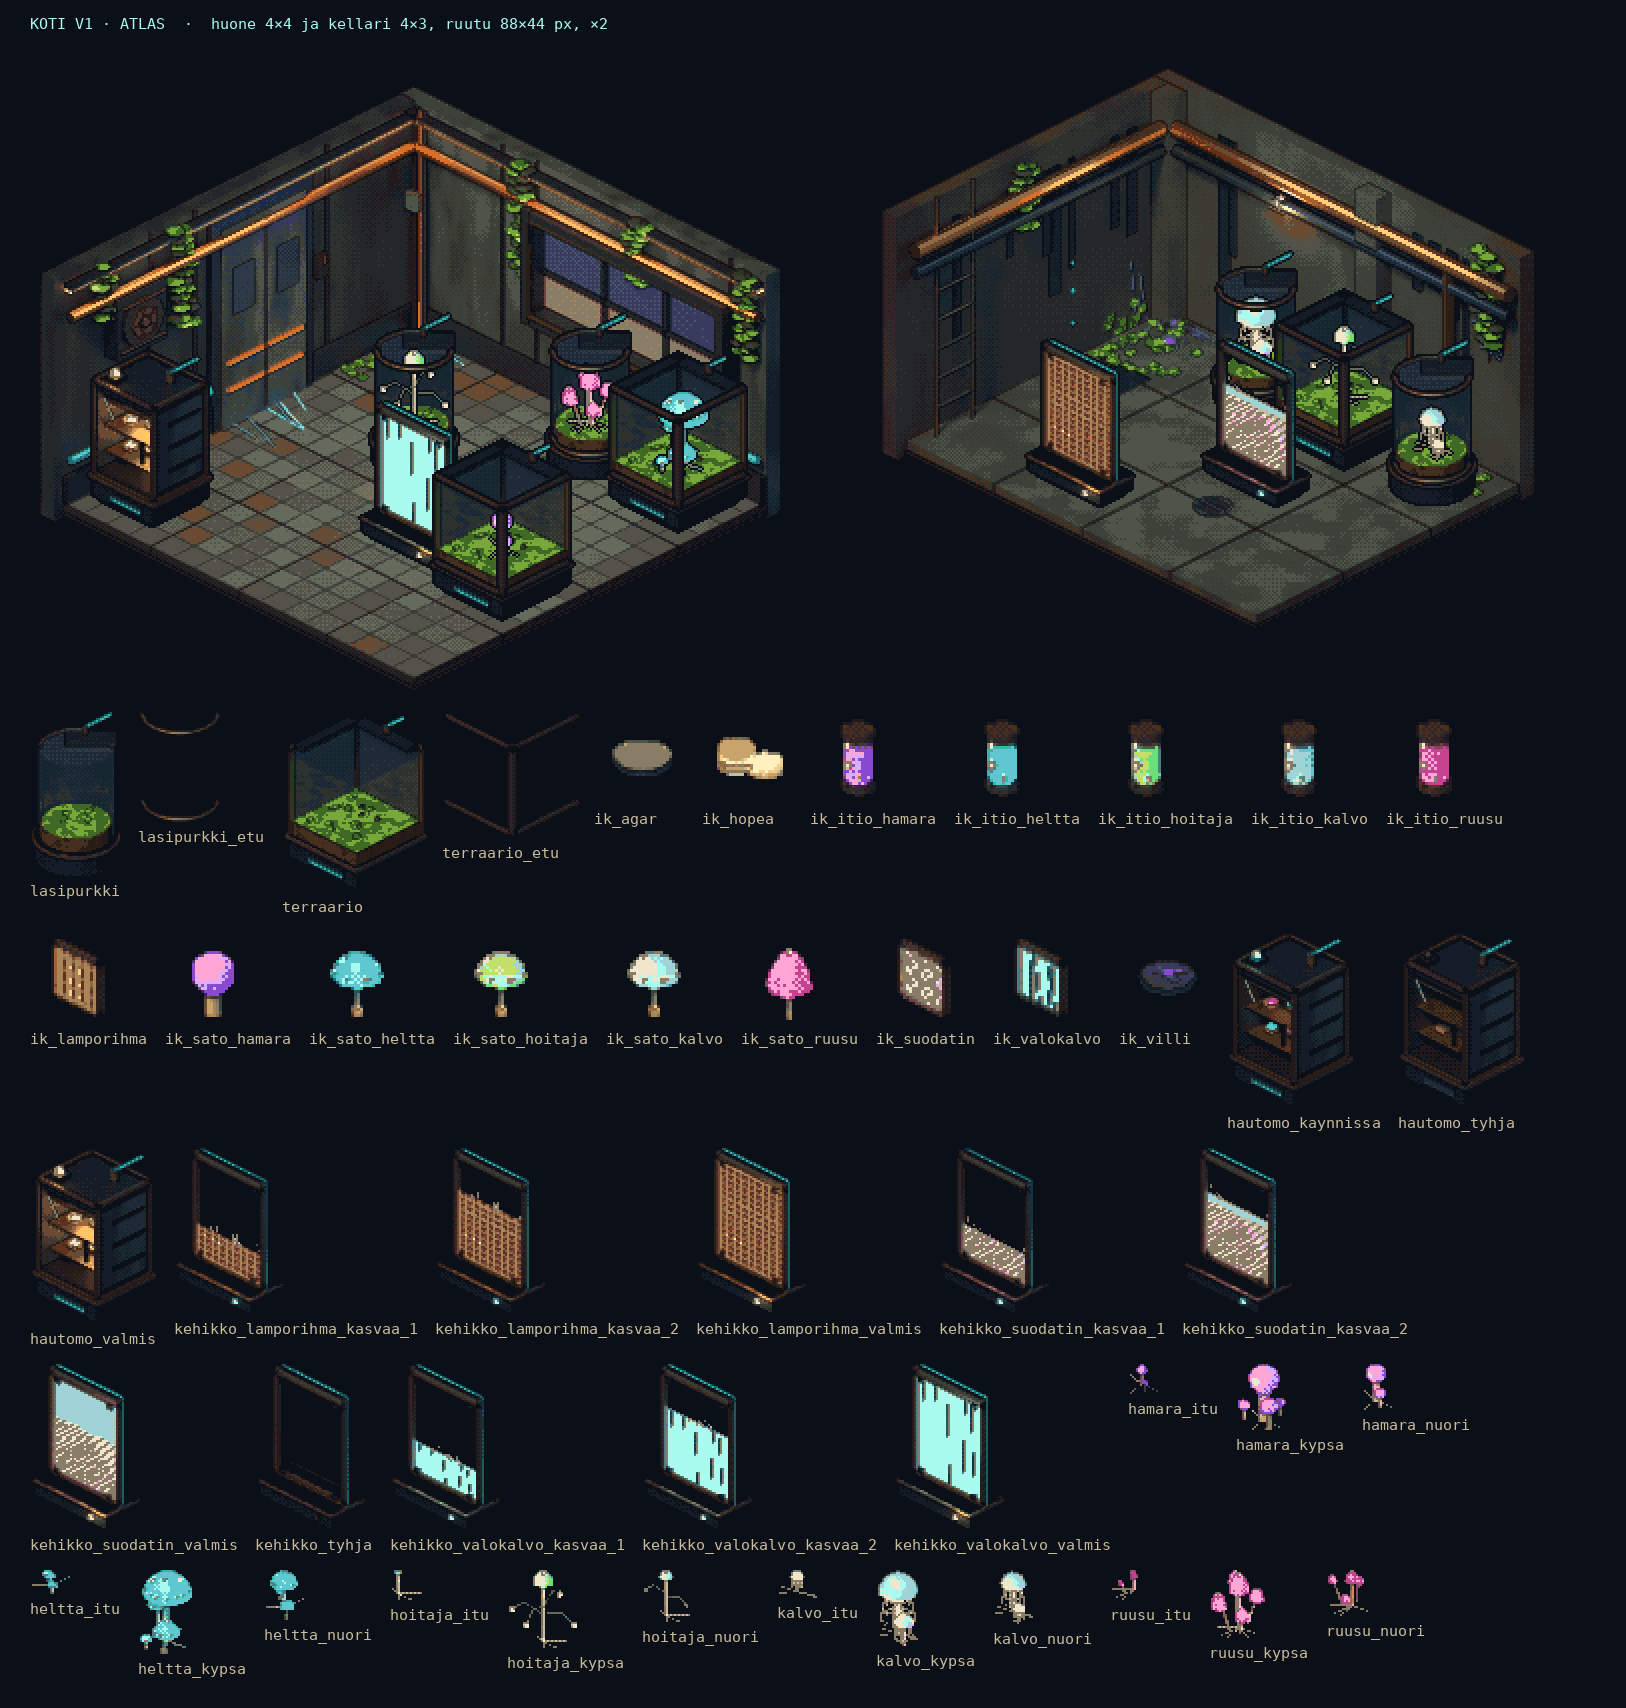
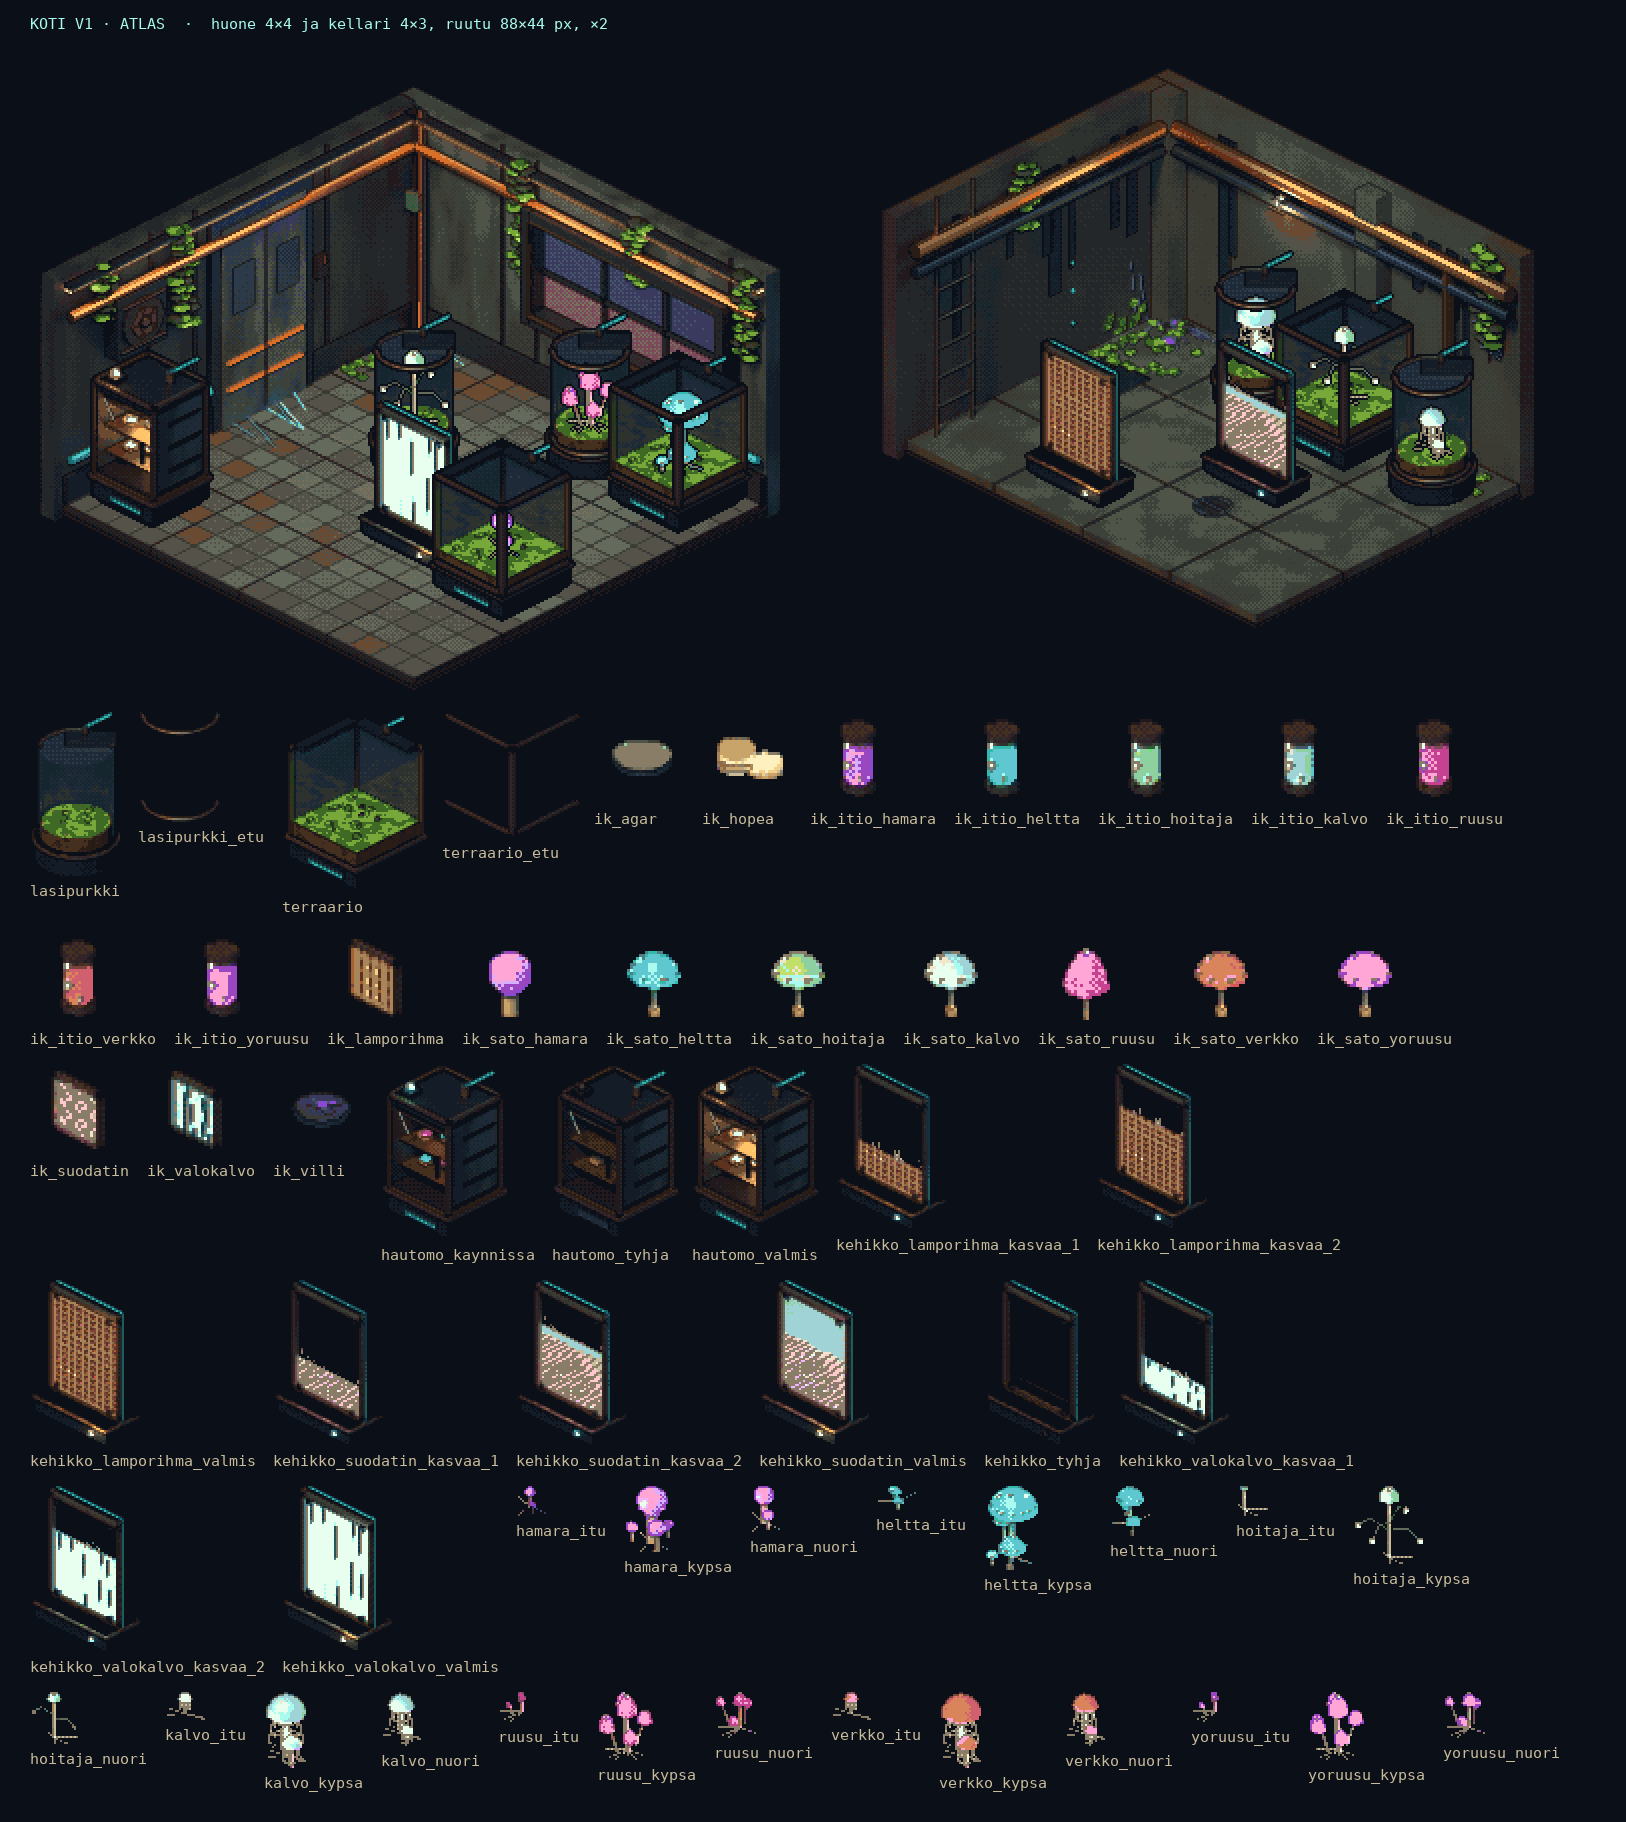
Grafiikka: uudet kannat yöruusu ja verkkoheltta atlakseen
Kantataulukkoon kaksi riviä (muodot lainattu ruususieneltä ja kalvohelttalta),
uusien kantojen ja hoitajasienen värit pix.py:n palettiin. Ikkunan hämärä himmeämmäksi.

Claude-Session: https://claude.ai/code/session_01JS56Z8CcBzHQJ8sgZoALuF

diff --git a/blender/koti.py b/blender/koti.py
@@ -75,6 +75,8 @@ STRAIN = {   # kanta: (lakki, heltat/hehku, tumma). Uusi kanta: lisää värit t
     'hamara': ('#8a4ad0', '#d6b0ff', '#3a1f5a'),
     'kalvo':  ('#9fd3d6', '#ffa6d6', '#2d4a55'),
     'hoitaja':('#8fd0a0', '#e8fff0', '#2f5a3a'),
+    'yoruusu':('#9a46c0', '#f2b4ff', '#3a1a50'),
+    'verkko': ('#d0606e', '#ffc8cc', '#5a2a3a'),
 }
 def M():
     return {
@@ -95,7 +97,7 @@ def M():
       'mossD':   mat('sammalT', '#24391c', 1.0),
       'stem':    mat('jalka', '#efe6cc', 0.7),
       'stemD':   mat('jalkaT', '#c9bc9c', 0.8),
-      'sky':     mat('taivas', '#3a3a5e', 1.0, emit='#7a4a5a', estr=1.2),
+      'sky':     mat('taivas', '#3a3a5e', 1.0, emit='#7a4a5a', estr=0.7),
       'skyT':    mat('taivasY', '#141c28', 1.0, emit='#1b2a4a', estr=1.2),
       'city':    mat('kaupunki', '#141c28', 1.0),
       'cityL':   mat('kaupunkiV', '#ffcf7a', 1.0, emit='#ffcf7a', estr=3.0),
@@ -127,7 +129,7 @@ def M():
       'pot':     mat('ruukku', '#a8602f', 0.8),
     }
 
-CAP_GLOW = {'kalvo': 0.4, 'hoitaja': 0.4}   # vaaleat lakit hehkuvat vähemmän, jotta väri ei puhkea valkoiseksi
+CAP_GLOW = {'kalvo': 0.4, 'hoitaja': 0.4, 'verkko': 0.8}   # vaaleat lakit hehkuvat vähemmän, jotta väri ei puhkea valkoiseksi
 def strain_mats(k):
     cap_c, gill_c, dark_c = STRAIN[k]
     return (mat('lakki_' + k, cap_c, 0.5, emit=cap_c, estr=CAP_GLOW.get(k, 1.6)),
@@ -329,6 +331,8 @@ KANNAT = {
     'hamara':  ('HÄMÄRÄNUPPI', muoto_nuppi),
     'kalvo':   ('KALVOHELTTA', muoto_kalvo),
     'hoitaja': ('HOITAJASIENI', muoto_hoitaja),
+    'yoruusu': ('YÖRUUSU', muoto_ruusu),        # ruususieni × hämäränuppi
+    'verkko':  ('VERKKOHELTTA', muoto_kalvo),   # kalvoheltta × hämäränuppi
 }
 STAGES = ('itu', 'nuori', 'kypsa')
 
@@ -464,7 +468,7 @@ def laite_hautomo(state='kaynnissa'):
 TUOTTEET = {   # kehikon tuotteet: avain -> (nimi, kanta, väri, hehku)
     'valokalvo':  ('VALOKALVO', 'heltta', '#5fc7d0', '#a8fbee'),
     'lamporihma': ('LÄMPÖRIHMA', 'ruusu', '#c4428f', '#ffc46a'),
-    'suodatin':   ('ITIÖSUODATIN', 'kalvo', '#9fd3d6', '#ffa6d6'),
+    'suodatin':   ('ITIÖSUODATIN', 'kalvo', '#9fd3d6', '#ffa6d6'),   # syöte kalvo- tai verkkoheltta
 }
 def membrane(prod, frac, x0, x1, z0, z1, y=0.0):
     """Kehikkoon kasvava elävä kasvusto. frac = kasvun osuus alhaalta ylös (0..1)."""

diff --git a/blender/pix.py b/blender/pix.py
@@ -5,7 +5,8 @@ PAL = '''0b1018 141c28 1f2a38 2c3a4a 46566a 22191c 33242a 4a3330 6a4440 2a1d16 4
 5e321e a8602f d99a5b f3d08a 16262e 2d4a55 4f7d86 9fd3d6 24391c 3f6a26 79a83a c2df6a 8a7d68 c9bc9c efe6cc
 103540 1d6a78 5fc7d0 ffcf7a fff0c0 1d5c58 34b8ac a8fbee 5a1f4a c4428f ffa6d6 6b2e12 d9702a ffc46a
 3a1f5a 8a4ad0 d6b0ff 1b2a4a 3a3a5e 7a4a5a d9845a 6ae07a 3b3a33 55524a 77705f 23272a 2e322e 3c4239 4e5448 646a5c
-7a4438 5a3028 c9a46a a8865a e0504a'''.split()
+7a4438 5a3028 c9a46a a8865a e0504a
+2f5a3a 8fd0a0 e8fff0 3a1a50 9a46c0 f2b4ff 5a2a3a d0606e ffc8cc'''.split()   # rivi 6: hoitajasieni, yöruusu, verkkoheltta
 pal = np.array([[int(h[i:i+2], 16) for i in (0, 2, 4)] for h in PAL], np.float32)
 B = np.array([[0,8,2,10],[12,4,14,6],[3,11,1,9],[15,7,13,5]], np.float32) / 16 - 0.47
 

diff --git a/docs/grafiikka-koti.md b/docs/grafiikka-koti.md
@@ -33,7 +33,7 @@ Muutokset alkuperäiseen listaan (prototyypin loppusuunnitelma 2026-11-13): kuiv
 **Astiat** (yksi ruutu, kaksi kerrosta, sieni piirretään väliin):
 - `astia_terraario` + `astia_terraario_etu`, `astia_lasipurkki` + `astia_lasipurkki_etu` (lasilieriö teräsjalustalla).
 
-**Sienet** `sieni_<kanta>_<itu|nuori|kypsa>`, kannat `heltta` (siniheltta), `ruusu` (ruususieni), `hamara` (hämäränuppi), `kalvo` (kalvoheltta, verkkomainen kalvohame), `hoitaja` (hoitajasieni, sivuille kurottavat rihmat ja sumupisarat). Kypsä sieni mahtuu molempiin astioihin.
+**Sienet** `sieni_<kanta>_<itu|nuori|kypsa>`, kannat `heltta` (siniheltta), `ruusu` (ruususieni), `hamara` (hämäränuppi), `kalvo` (kalvoheltta, verkkomainen kalvohame), `hoitaja` (hoitajasieni, sivuille kurottavat rihmat ja sumupisarat), `yoruusu` (yöruusu, ruususienen rypäsmuoto omin värein) ja `verkko` (verkkoheltta, kalvoheltan verkkomuoto omin värein). Kypsä sieni mahtuu molempiin astioihin. Uusien kantojen ja hoitajasienen värit on lisätty `pix.py`:n palettiin (rivi 6).
 
 **Laitteet** (yksi ruutu):
 - `laite_hautomo_<tyhja|kaynnissa|valmis>`.
